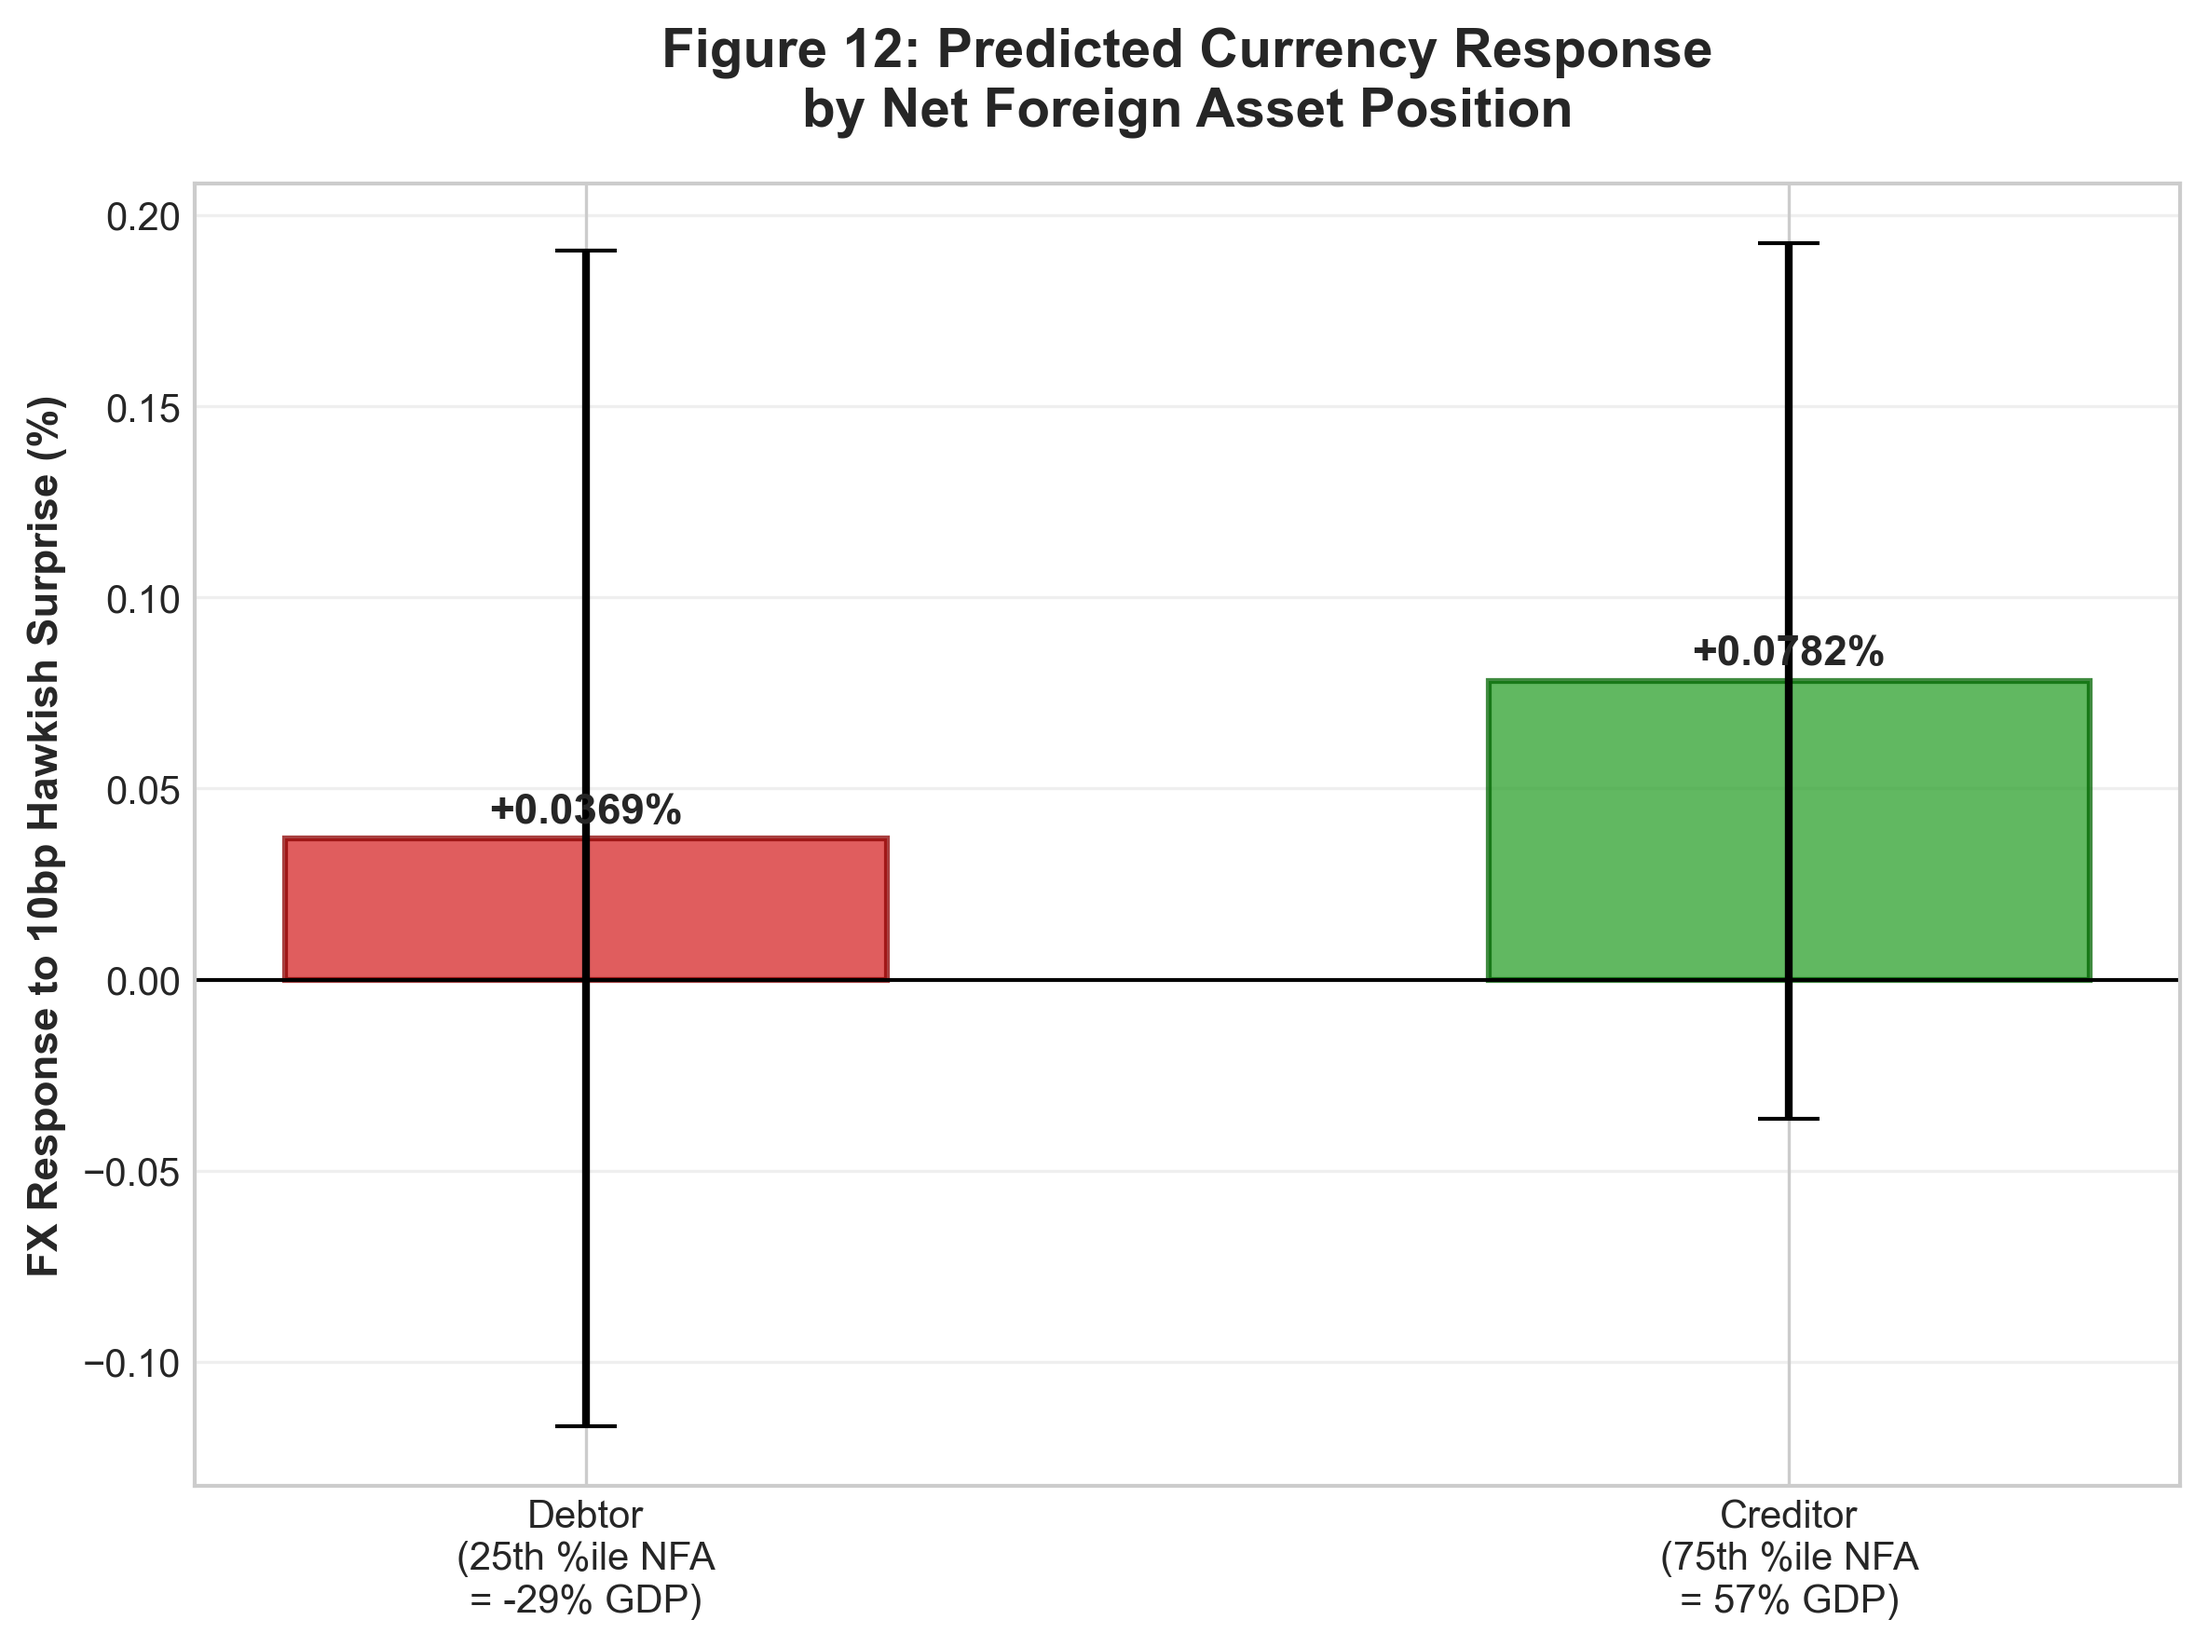
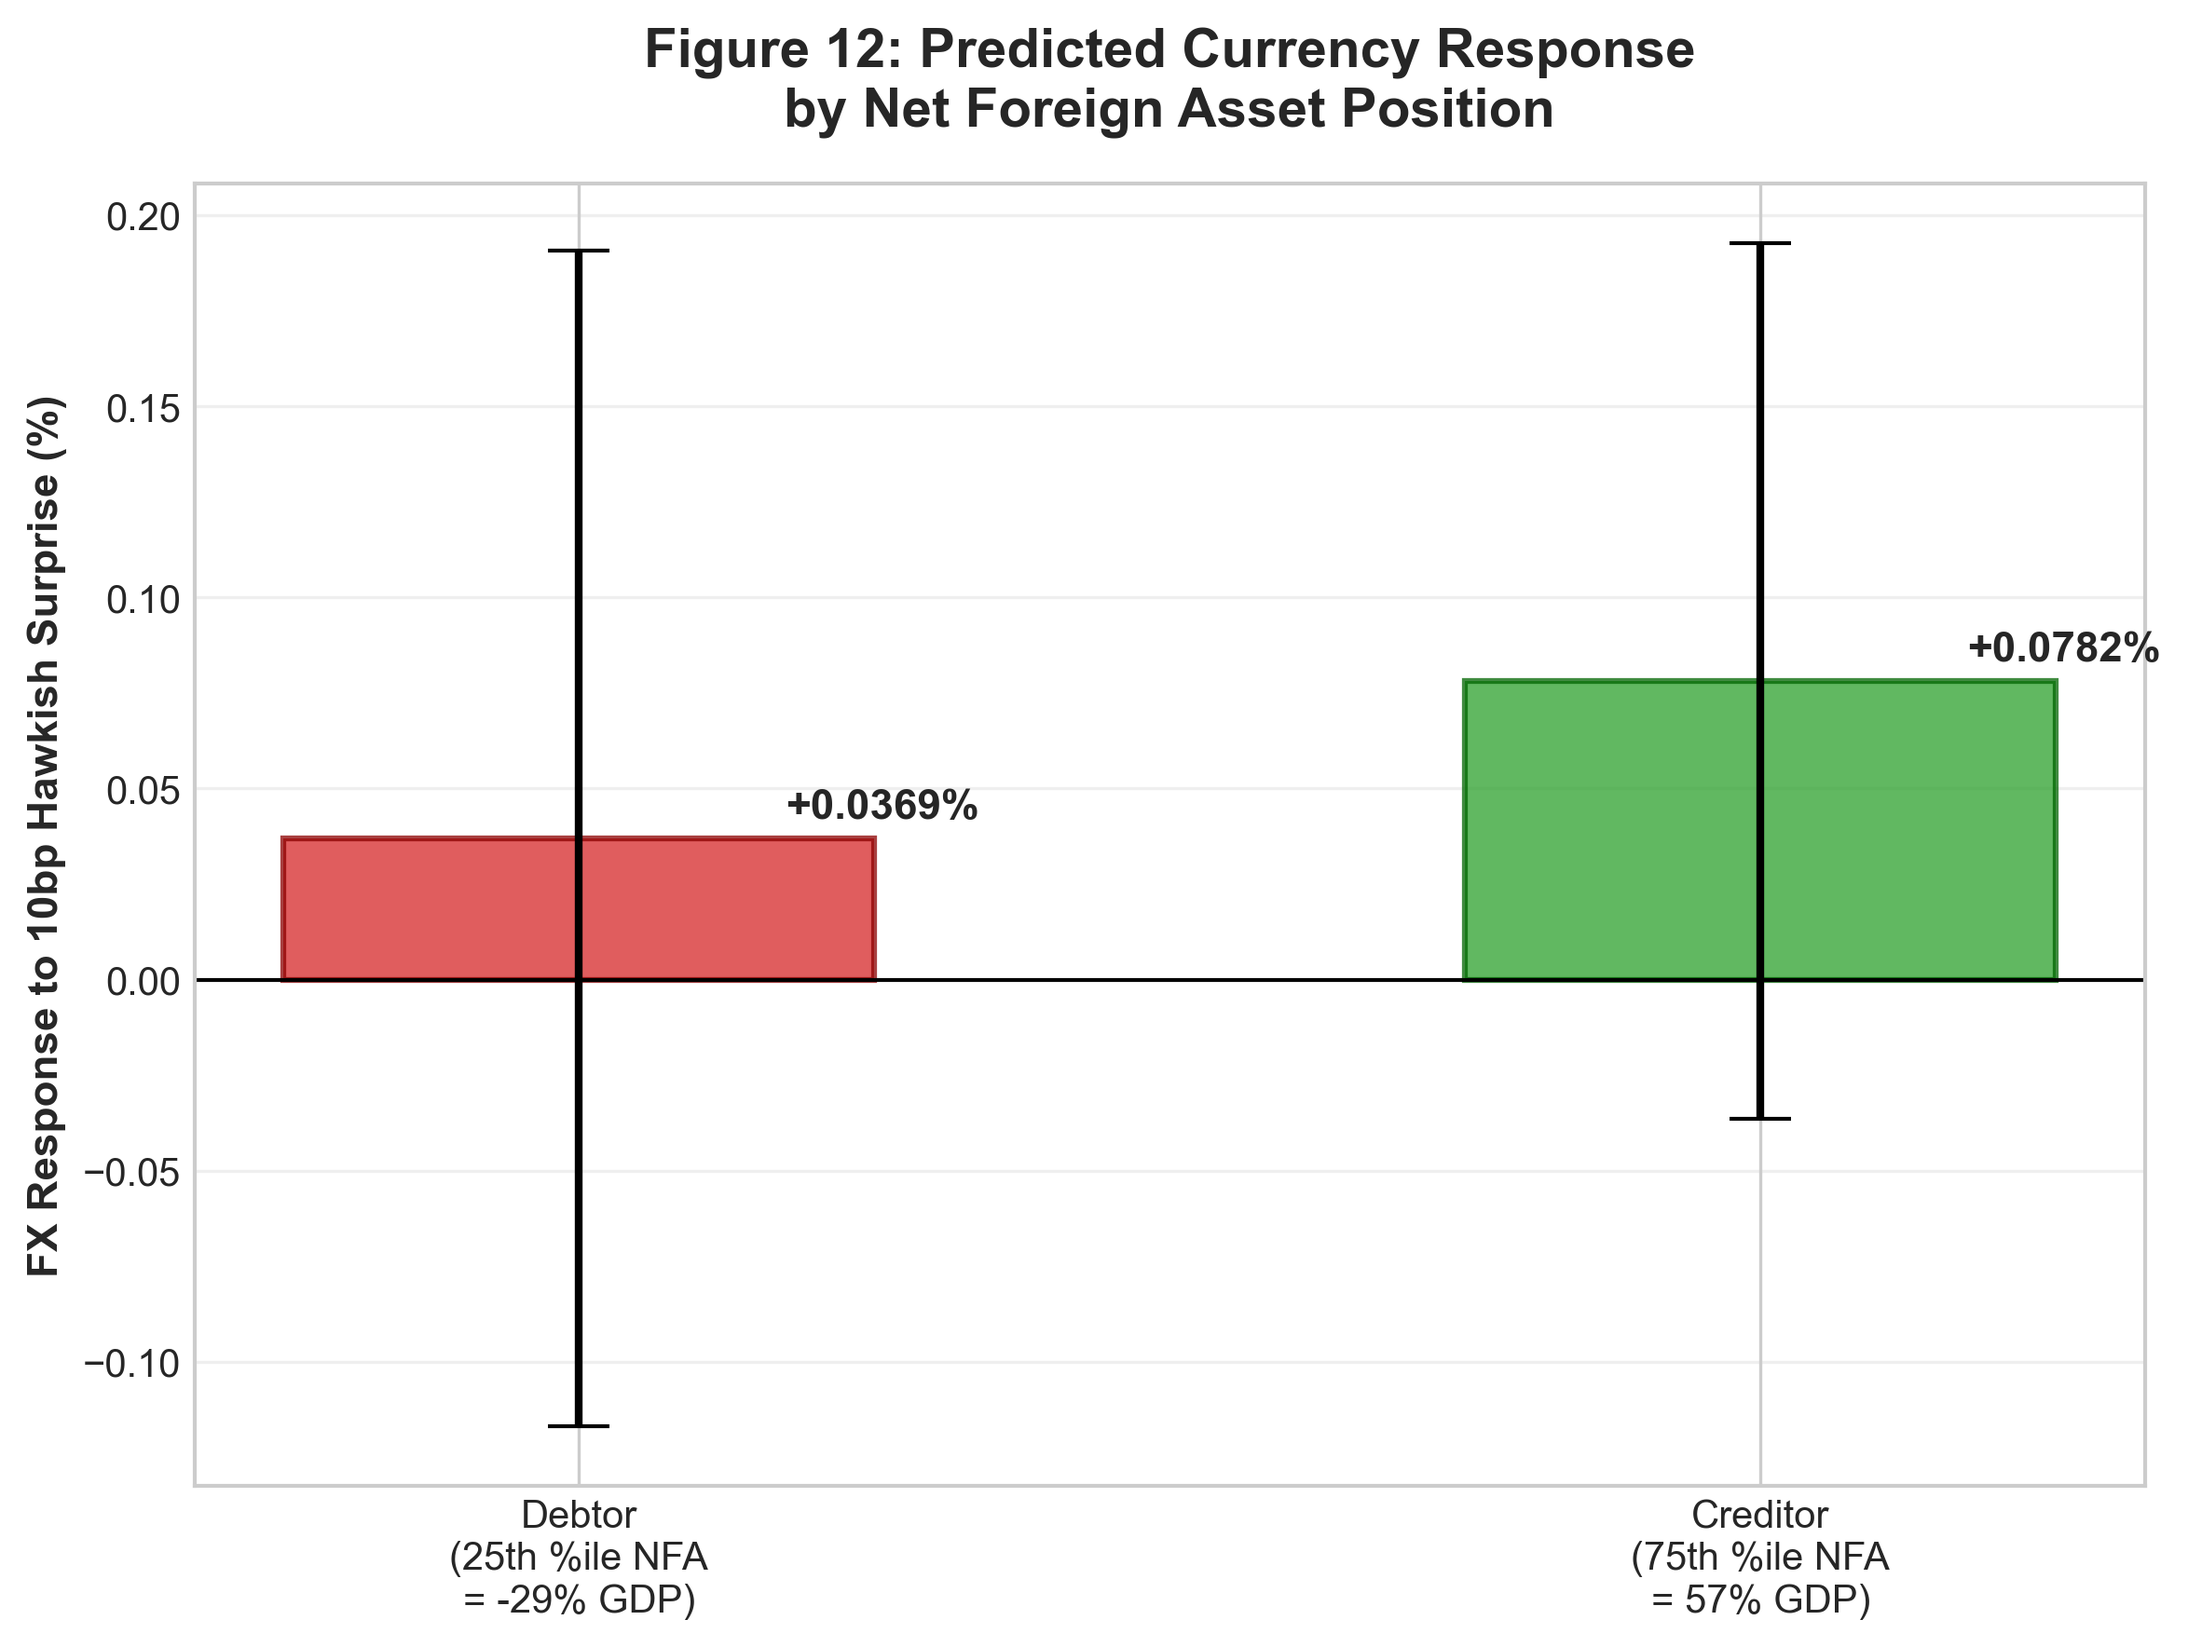
Fix figure11 y-axis zoom and figure12 label positioning

diff --git a/task3_panel_regression.py b/task3_panel_regression.py
@@ -649,22 +649,34 @@ ax.set_ylabel('Marginal Effect of STMT on FX (%)', fontsize=12, fontweight='bold
 ax.set_title('Figure 11: How Currency Response to U.S. Monetary Policy\n'
              'Varies with Net Foreign Asset Position',
              fontsize=14, fontweight='bold', pad=15)
-ax.legend(fontsize=10, loc='best', frameon=True)
+ax.legend(fontsize=10, loc='upper left', frameon=True)
 ax.grid(alpha=0.3)
 
-# Annotation
+# Zoom y-axis to actual data range (avoid extending to 400)
+all_y_vals = np.concatenate([marginal_effect, ci_lower, ci_upper,
+                             country_me.values])
+y_min, y_max = np.min(all_y_vals), np.max(all_y_vals)
+y_pad = (y_max - y_min) * 0.3
+ax.set_ylim(y_min - y_pad, y_max + y_pad)
+
+# Zoom x-axis to actual NFA data range with padding
+x_min, x_max = nfa_avg.min(), nfa_avg.max()
+x_pad = (x_max - x_min) * 0.25
+ax.set_xlim(x_min - x_pad, x_max + x_pad)
+
+# Annotation — larger text, more offset for visibility
 ax.annotate('Debtor countries\n(more exposed)',
-            xy=(nfa_range[20], marginal_effect[20]),
-            xytext=(nfa_range[20] + 15, marginal_effect[20] + 0.3),
-            fontsize=9, fontstyle='italic',
-            arrowprops=dict(arrowstyle='->', color='red', lw=1.5),
+            xy=(nfa_avg.min(), country_me[nfa_avg.idxmin()]),
+            xytext=(-30, -40), textcoords='offset points',
+            fontsize=11, fontstyle='italic', fontweight='bold',
+            arrowprops=dict(arrowstyle='->', color='red', lw=2),
             color='red')
 
 ax.annotate('Creditor countries\n(less exposed)',
-            xy=(nfa_range[-30], marginal_effect[-30]),
-            xytext=(nfa_range[-30] - 30, marginal_effect[-30] - 0.3),
-            fontsize=9, fontstyle='italic',
-            arrowprops=dict(arrowstyle='->', color='green', lw=1.5),
+            xy=(nfa_avg.max(), country_me[nfa_avg.idxmax()]),
+            xytext=(-60, 30), textcoords='offset points',
+            fontsize=11, fontstyle='italic', fontweight='bold',
+            arrowprops=dict(arrowstyle='->', color='green', lw=2),
             color='green')
 
 plt.tight_layout()
@@ -710,12 +722,12 @@ ax.set_title('Figure 12: Predicted Currency Response\nby Net Foreign Asset Posit
              fontsize=14, fontweight='bold', pad=15)
 ax.grid(axis='y', alpha=0.3)
 
-# Add values on bars
+# Add values on bars — offset right to avoid CI line overlap
 for bar, val, err in zip(bars, responses, errors):
     height = bar.get_height()
     sign = '+' if val > 0 else ''
-    ax.text(bar.get_x() + bar.get_width() / 2., height + 0.002,
-            f'{sign}{val:.4f}%', ha='center', va='bottom',
+    ax.text(bar.get_x() + bar.get_width() * 0.85, height + 0.003,
+            f'{sign}{val:.4f}%', ha='left', va='bottom',
             fontsize=11, fontweight='bold')
 
 plt.tight_layout()
